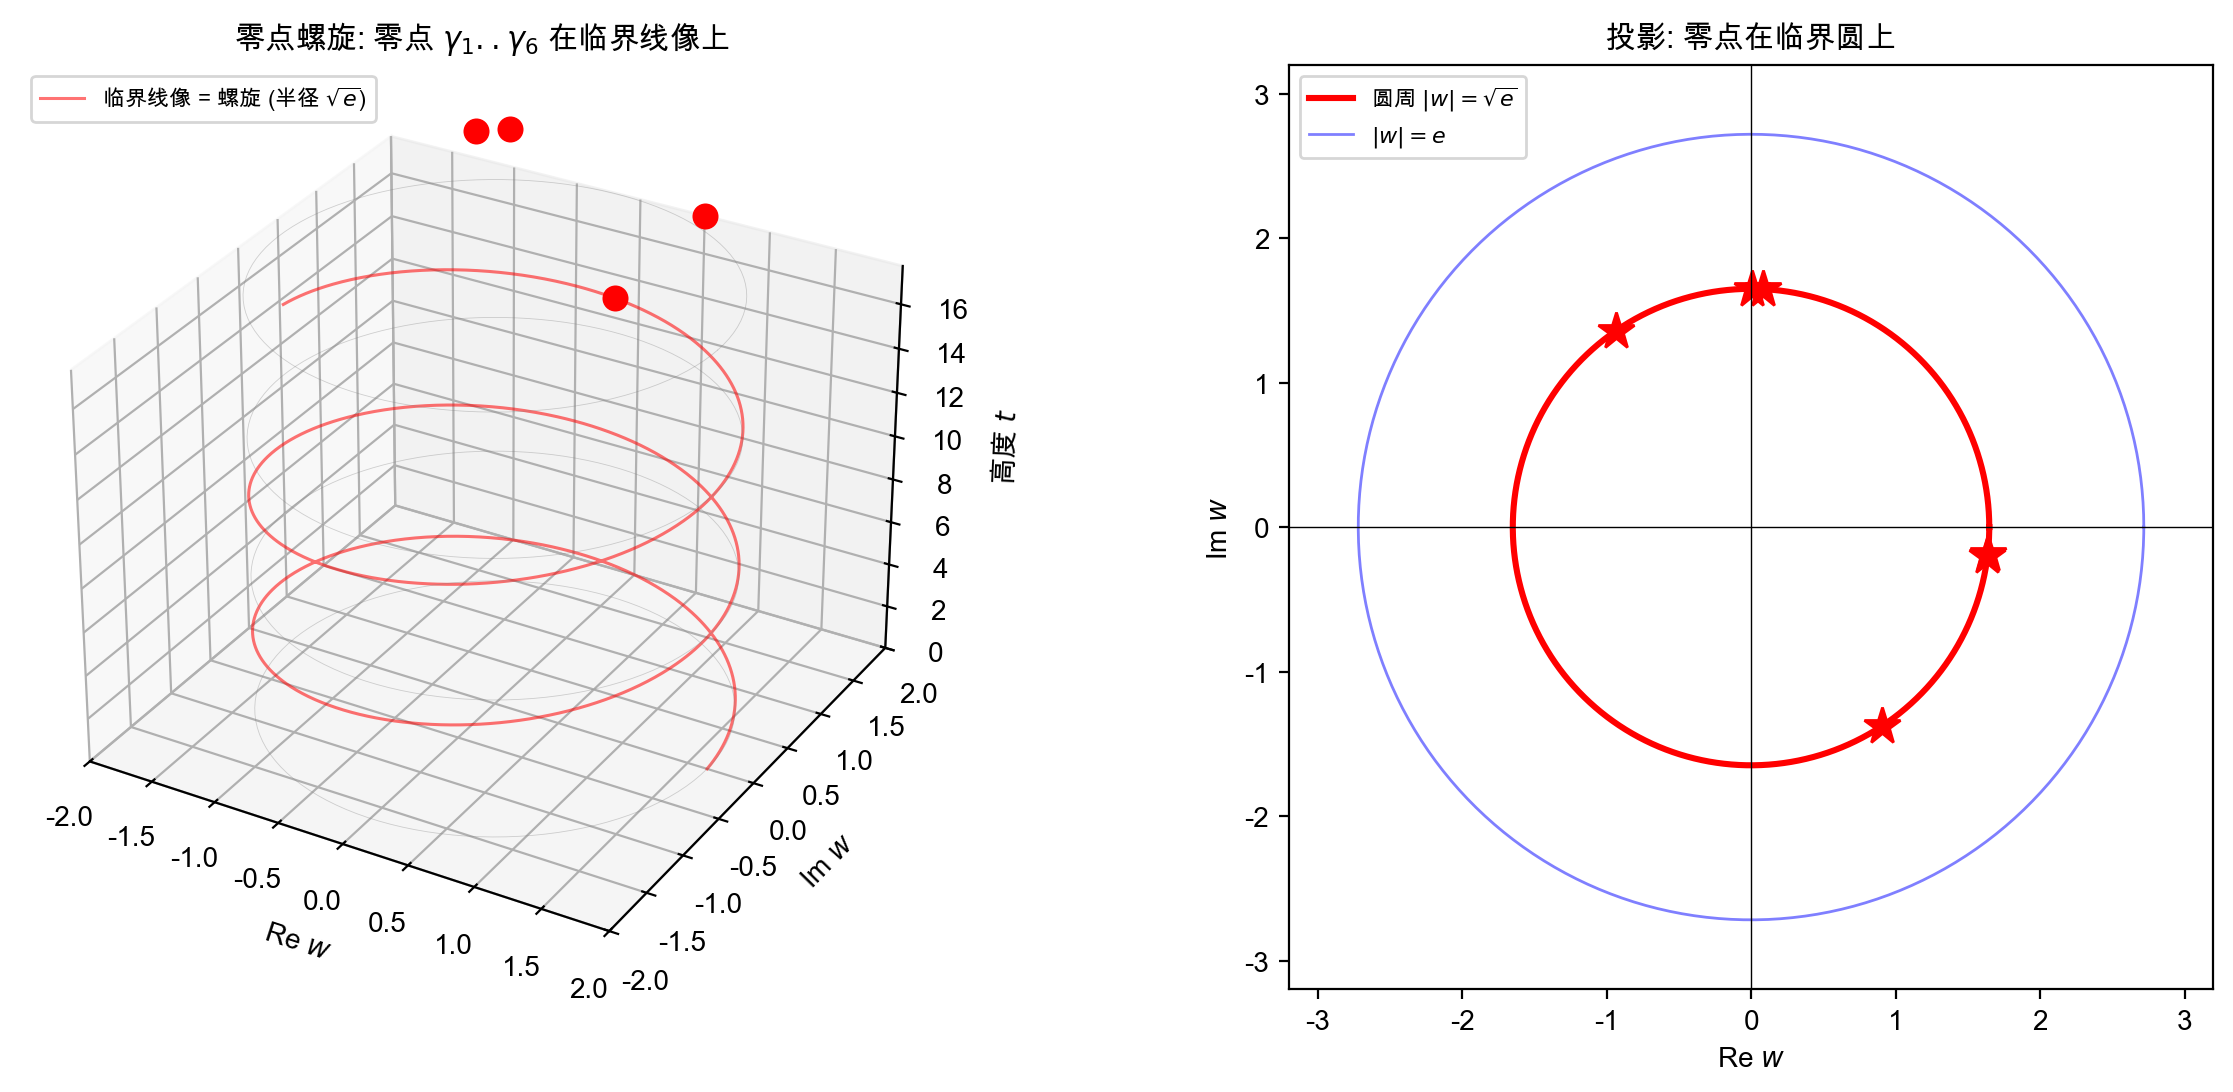
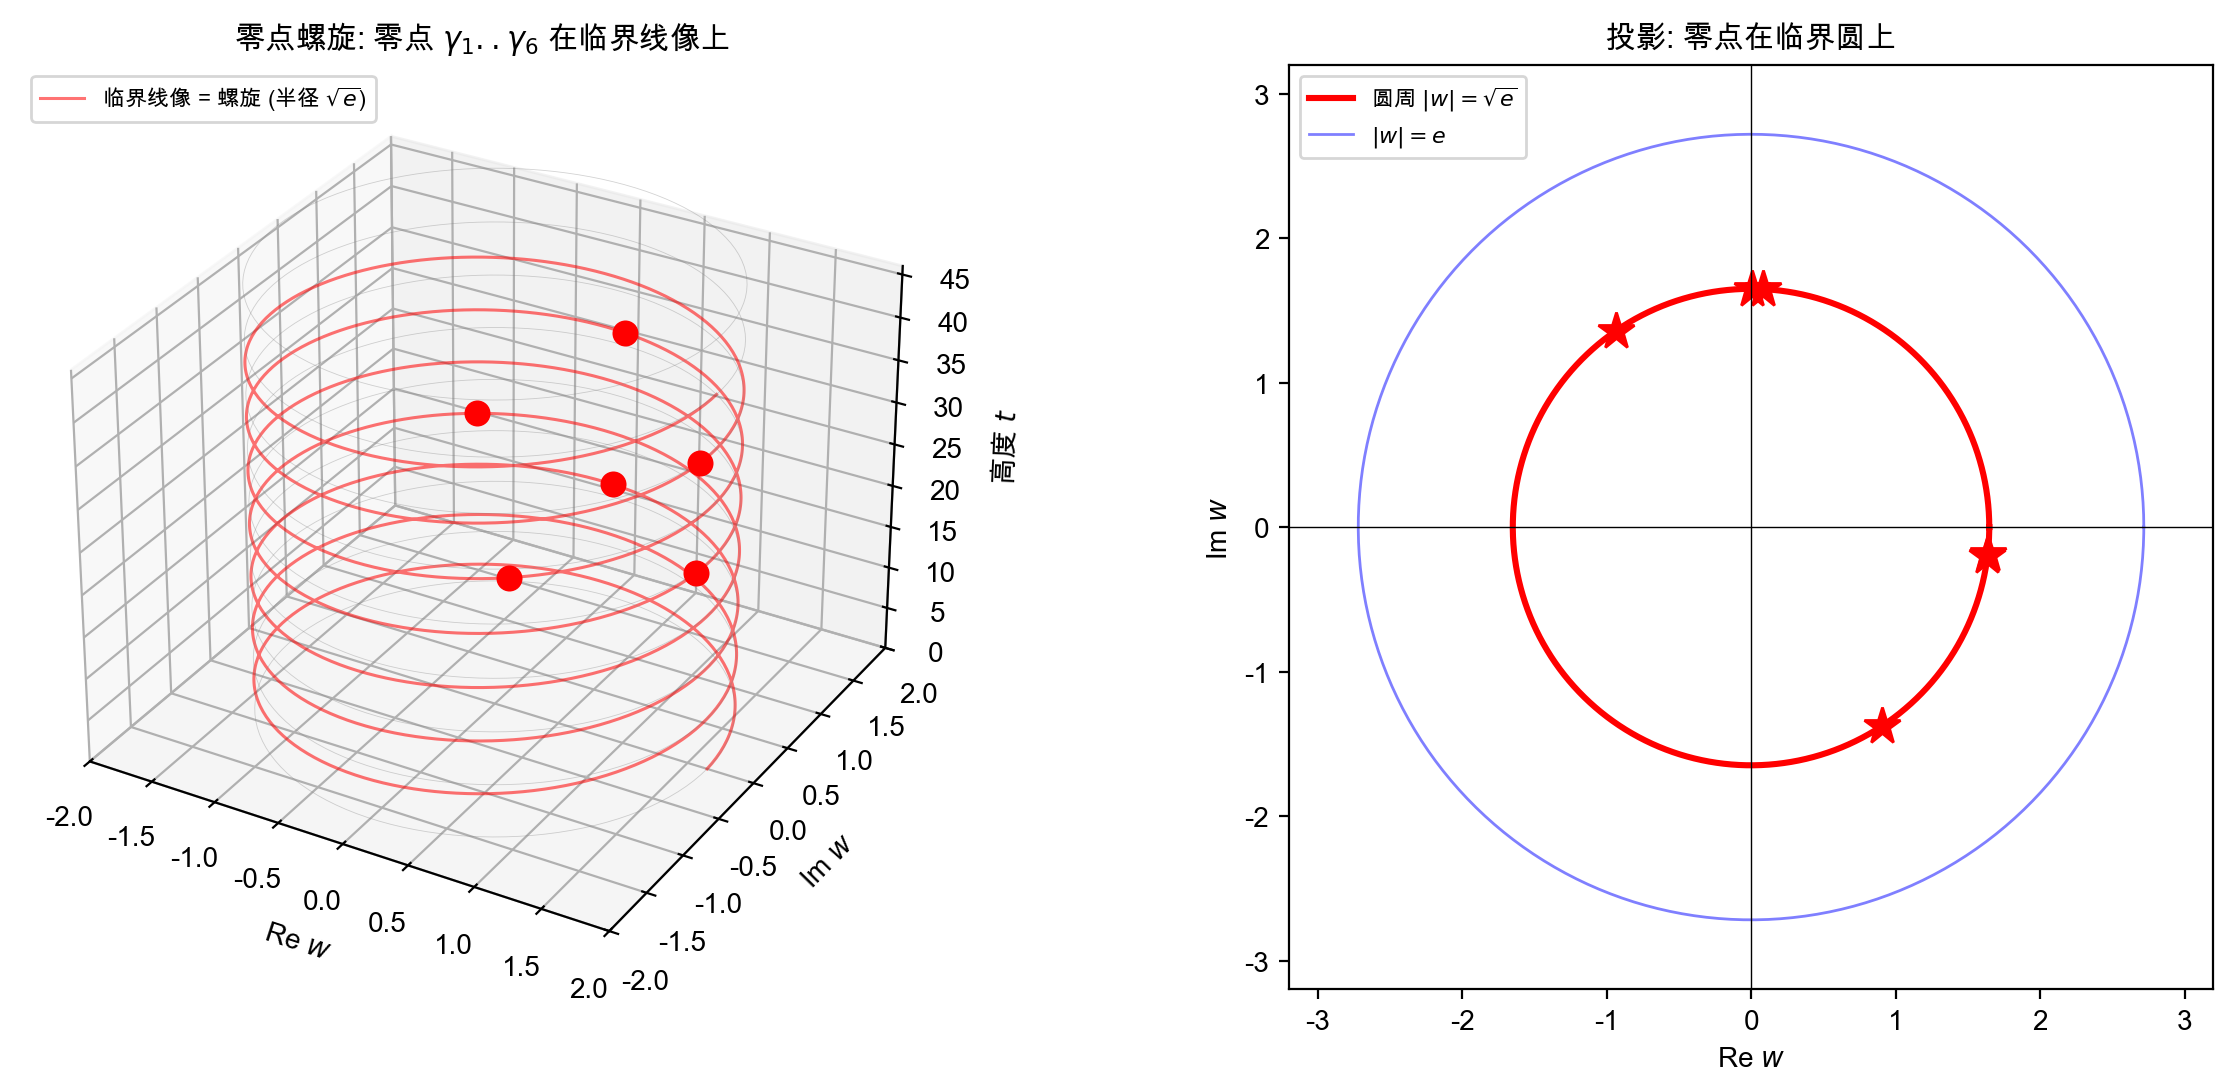
fix(paper): zh title via texorpdfstring (CJK xdef conflict), remove alttitle CJK residue; fig8 helix covers all six zeros (7 turns); Lean names allow line breaks (overfull reduction)

Changed region(s): [[0.0309, 0.0934, 0.4326, 0.685], [0.1854, 0.7161, 0.2472, 0.7473]]

diff --git a/paper/riemann-hibs/riemann_hibs_zh.tex b/paper/riemann-hibs/riemann_hibs_zh.tex
@@ -39,7 +39,7 @@
 \newtheorem{definition}[theorem]{定义}
 \newtheorem*{remark}{注}
 \setattribute{title}{size}{\LARGE\bfseries}
-\newcommand{\Lean}[1]{\texttt{\detokenize{#1}}}
+\newcommand{\Lean}[1]{\texttt{\detokenize{#1}}\allowbreak}
 \def\journal@name{}%
 \setattribute{jsfdsinfo}{text}{}%
 \setattribute{copyright}{text}{}
@@ -52,9 +52,8 @@
 \begin{document}
 \begin{frontmatter}
 
-\title{临界圆上的无限零点：隐数坐标系与黎曼猜想}
+\title{\texorpdfstring{临界圆上的无限零点：隐数坐标系与黎曼猜想}{Infinitely Many Zeros on the Critical Circle: Hidden-Number Coordinates and the Riemann Hypothesis}}
 \runtitle{隐数坐标系与临界圆}
-{UTF8}{gbsn}Infinitely Many Zeros on the Critical Circle: Hidden-Number Coordinates and the Riemann Hypothesis\end{CJK*}}
 
 \begin{aug}
   \auteur{%

diff --git a/paper/riemann-hibs/riemann_hibs_en.tex b/paper/riemann-hibs/riemann_hibs_en.tex
@@ -40,7 +40,7 @@
 \newtheorem{definition}[theorem]{Definition}
 \newtheorem*{remark}{Remark}
 \setattribute{title}{size}{\LARGE\bfseries}
-\newcommand{\Lean}[1]{\texttt{\detokenize{#1}}}
+\newcommand{\Lean}[1]{\texttt{\detokenize{#1}}\allowbreak}
 \def\journal@name{}%
 \setattribute{jsfdsinfo}{text}{}%
 \setattribute{copyright}{text}{}

diff --git a/viz/fig8_static.py b/viz/fig8_static.py
@@ -45,7 +45,7 @@ OUT = "viz"
 SQRT_E = float(np.e) ** 0.5
 N_ZEROS = 6
 T_MAX = 42.0          # covers gamma_6 ~ 37.59
-TURNS = 2.5
+TURNS = 7.0           # helix height covers all six zeros (7 turns ~ 44)
 
 for _fp in ("/System/Library/Fonts/Supplemental/Arial Unicode.ttf",
             "/System/Library/Fonts/Hiragino Sans GB.ttc",
